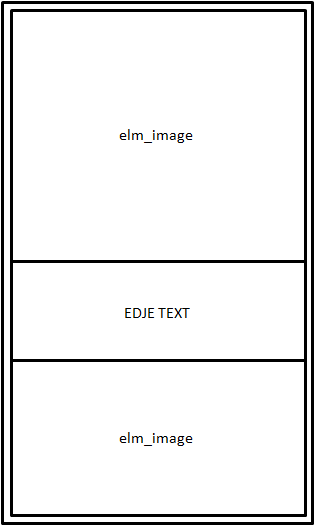
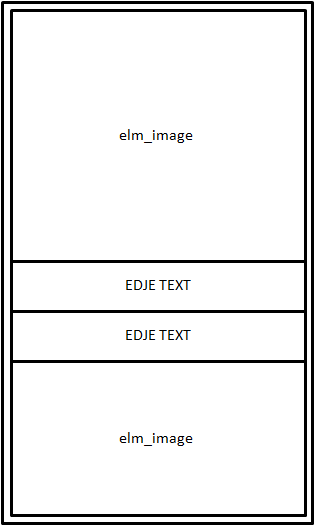
[SAMPLE APP][RESOURCE-MANAGER] Layout resources description added and images updated (layout, view, workflow)

Changed region(s): [[0.0286, 0.5779, 0.9714, 0.6996], [0.4, 0.5171, 0.6, 0.5475]]

diff --git a/org.tizen.sampledescriptions/html/mobile_n/resource_manager_sd_mn.htm b/org.tizen.sampledescriptions/html/mobile_n/resource_manager_sd_mn.htm
@@ -26,10 +26,10 @@
 
   <p>
   The Tizen API's Resource Manager module provides a small set of functions enabling "objects" extraction from the application's prior created resources. The "objects" extraction process is based on the
-  environment the application is running in: language and/or screen's DPI. Currently supported objects which may be handled by the Resource Manager are images and sounds (files). The Resource Manager's
-  operational principle is to deliver an object relevant to the current application's environment.
+  environment the application is running in: language and/or screen's DPI. Currently supported objects which may be handled by the Resource Manager are images, sounds, layouts and custom binary files.
+  The Resource Manager's operational principle is to deliver an object relevant to the current application's environment.
   <br>
-  This application demonstrates how to automatically pick an image matching:
+  This application demonstrates how to automatically pick an image and layout matching:
     <ul>
 	  <li>the language changed via Settings application;</li>
 	  <li>the device's screen DPI.</li>
@@ -81,7 +81,7 @@
   <ul>
     <li>application startup,</li>
 	<li>image extraction relevant to the screen's DPI,</li>
-	<li>image extraction relevant to the current language,</li>
+	<li>image and layout extraction relevant to the current language,</li>
   </ul>
   which can be described by the following figure:
   </p>
@@ -113,12 +113,13 @@
   </p>
 
   <p>
-  Once the resource directories structure is created, one can put relevant resource files in target directories. In case of this sample application, two types of images were uploaded:
+  Once the resource directories structure is created, one can put relevant resource files in target directories. In case of this sample application, two types of images and a layout script were uploaded:
     <ul>
 	  <li>'tizen.png' - the Tizen's logo adapted to each resolution respectively;</li>
-	  <li>'flag.png' - the national flag relevant to each supported language.</li>
+	  <li>'flag.png' - the national flag relevant to each supported language;</li>
+	  <li>'language.edc' - the layout script relevant to each supported language.</li>
 	</ul>
-  The name of each of the resolution related file is set to 'tizen.png' and to 'flag.png" for the each language related resource.
+  The name of each of the resolution related file is set to 'tizen.png' and to 'flag.png' / 'language.edc' for the each language related resource.
   </p>
 
   <p>
@@ -155,6 +156,7 @@ struct __viewdata {
 &nbsp;&nbsp;&nbsp;Evas_Object *win;
 &nbsp;&nbsp;&nbsp;Evas_Object *conform;
 &nbsp;&nbsp;&nbsp;Evas_Object *layout_main_panel;
+&nbsp;&nbsp;&nbsp;Evas_Object *layout_language;
 &nbsp;&nbsp;&nbsp;Evas_Object *image_dpi;
 &nbsp;&nbsp;&nbsp;Evas_Object *image_language;
 };
@@ -356,10 +358,11 @@ bool __model_release_app_resource_manager(void)
 
   <p>
   Once the resources are defined using <a href="#res-man">Resource Explorer</a> and appropriate resource files are uploded to the destination folders, one can start using these files.
-  For the demonstration purpose, two scenarions were chosen:
+  For the demonstration purpose, three scenarions were chosen:
     <ul>
 	  <li>displaying the image related to the current DPI setting;</li>
-	  <li>displaying the image related to the current locale setting.</li>
+	  <li>displaying the image related to the current locale setting;</li>
+	  <li>setting the layout related to the current locale setting.</li>
 	</ul>
   </p>
 
@@ -387,9 +390,10 @@ static void __controller_init_dpi(viewdata_s *vd)
 </pre>
 
   <p>
-  In the second case, there are 48 image files (each name is set to 'flag.png') depicting the national flags related to all supported languages. Each of the images is stored in a different folder:
-  'res/contents/az_AZ', 'res/contents/ca_ES', ... , 'res/contents/zh_TW'. Once the user changes the current language (Settings application &#10140; Language and input &#10140; Display language),
-  the <span style="font-family: Courier New,Courier,monospace">__ui_app_lang_changed()</span> callback function is invoked (see the <a href="#app-init">Application initialization</a> section).
+  In the second and third cases, there are 48 image files (each name is set to 'flag.png') depicting the national flags and 48 layout files (each name is set to 'language.edc') creating the text fields
+  related to all supported languages. Each of the images and layouts are stored in a different folder:
+  'res/contents/az_AZ', 'res/contents/ca_ES', ... , 'res/contents/zh_TW'. Once, the user changes the current language (Settings application &#10140; Language and input &#10140; Display language),
+  the callback function <span style="font-family: Courier New,Courier,monospace">__ui_app_lang_changed()</span> is invoked (see the <a href="#app-init">Application initialization</a> section).
   This callback function hooks <span style="font-family: Courier New,Courier,monospace">APP_EVENT_LANGUAGE_CHANGED</span> event. At the entry point of the
   <span style="font-family: Courier New,Courier,monospace">__ui_app_lang_changed()</span> function, the current locale is obtained using
   <span style="font-family: Courier New,Courier,monospace">model_get_locale()</span> function in order to be later set as a current language for the application
@@ -403,35 +407,46 @@ static void __ui_app_lang_changed(app_event_info_h event_info, void *user_data)
 &nbsp;&nbsp;&nbsp;appdata_s *ad = (appdata_s *)user_data;
 &nbsp;&nbsp;&nbsp;char *locale = NULL;
 
-&nbsp;&nbsp;&nbsp;/* Gets the current locale name. */
 &nbsp;&nbsp;&nbsp;if (!model_get_locale(&locale))
 &nbsp;&nbsp;&nbsp;&nbsp;&nbsp;&nbsp;return;
 
-&nbsp;&nbsp;&nbsp;/* Sets the language for this application. */
 &nbsp;&nbsp;&nbsp;elm_language_set(locale);
 
-&nbsp;&nbsp;&nbsp;/* See the code snippet below. */
-&nbsp;&nbsp;&nbsp;controller_set_language(&ad->view, locale);
+&nbsp;&nbsp;&nbsp;controller_log(DLOG_INFO, "Language set to: %s.", locale);
 
-&nbsp;&nbsp;&nbsp;free(locale);
+&nbsp;&nbsp;&nbsp;if (locale)
+&nbsp;&nbsp;&nbsp;&nbsp;&nbsp;&nbsp;free(locale);
+
+&nbsp;&nbsp;&nbsp;controller_set_language(&ad->view);
 
 &nbsp;&nbsp;&nbsp;return;
 }
 </pre>
 
 <pre class="prettyprint">
-void controller_set_language(viewdata_s *vd, char *locale)
+void controller_set_language(viewdata_s *vd)
 {
 &nbsp;&nbsp;&nbsp;char *file_path = NULL;
 
-&nbsp;&nbsp;&nbsp;controller_log(DLOG_INFO, "Language set to: %s.", locale);
+&nbsp;&nbsp;&nbsp;/* Obtains the path to the 'language.edj' file with respect to the current language's settings. */
+&nbsp;&nbsp;&nbsp;if (model_get_app_resource(APP_RESOURCE_TYPE_LAYOUT, "language.edj", &file_path)) {
+&nbsp;&nbsp;&nbsp;&nbsp;&nbsp;&nbsp;const char *rel_file_path = NULL;
+
+&nbsp;&nbsp;&nbsp;&nbsp;&nbsp;&nbsp;/* The layout's file path must be transformed to the relative one, as the elm_layout widget does not accept absolute paths. */
+&nbsp;&nbsp;&nbsp;&nbsp;&nbsp;&nbsp;if (__controller_get_relative_resource_file_path(file_path, &rel_file_path))
+&nbsp;&nbsp;&nbsp;&nbsp;&nbsp;&nbsp;&nbsp;&nbsp;&nbsp;/* If successful, then the layout file is uploaded and inserted to the PART_MAIN_BOTTOM_PANEL_LANGUAGE_PANEL swallow of the main layout. */
+&nbsp;&nbsp;&nbsp;&nbsp;&nbsp;&nbsp;&nbsp;&nbsp;&nbsp;view_show_language_layout(vd, rel_file_path);
+&nbsp;&nbsp;&nbsp;}
+
+&nbsp;&nbsp;&nbsp;if (file_path)
+&nbsp;&nbsp;&nbsp;&nbsp;&nbsp;&nbsp;free(file_path);
+
+&nbsp;&nbsp;&nbsp;file_path = NULL;
 
 &nbsp;&nbsp;&nbsp;/* Obtains the path to the 'flag.png' file with respect to the current language's settings. */
-&nbsp;&nbsp;&nbsp;if (!model_get_app_resource(APP_RESOURCE_TYPE_IMAGE, "flag.png", &file_path))
-&nbsp;&nbsp;&nbsp;&nbsp;&nbsp;&nbsp;return;
-
-&nbsp;&nbsp;&nbsp;/* The obtained image file is displayed. */
-&nbsp;&nbsp;&nbsp;view_show_language_info(vd, locale, file_path);
+&nbsp;&nbsp;&nbsp;if (model_get_app_resource(APP_RESOURCE_TYPE_IMAGE, "flag.png", &file_path))
+&nbsp;&nbsp;&nbsp;&nbsp;&nbsp;&nbsp;/* If successful, then the image is displayed. */
+&nbsp;&nbsp;&nbsp;&nbsp;&nbsp;&nbsp;view_show_language_info(vd, file_path);
 
 &nbsp;&nbsp;&nbsp;if (file_path)
 &nbsp;&nbsp;&nbsp;&nbsp;&nbsp;&nbsp;free(file_path);
